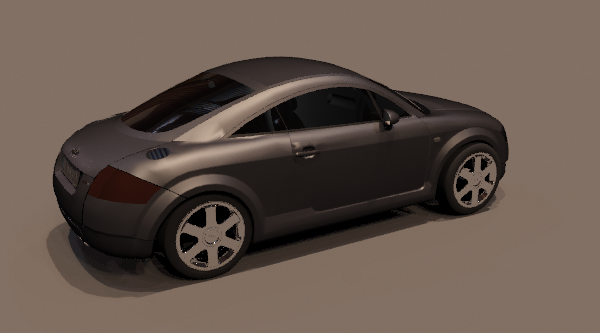
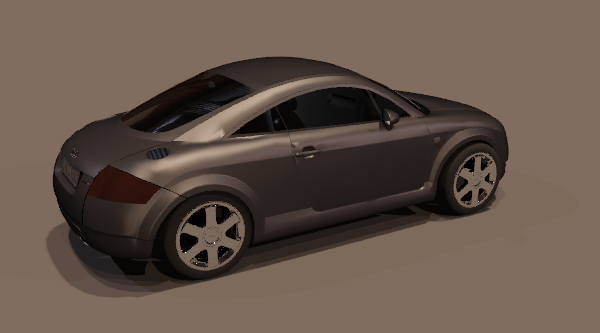
new report and png

diff --git a/project3/b03902082.html b/project3/b03902082.html
@@ -19,10 +19,10 @@
   </p>
   <p>
     接著我按照論文的方法，一開始 WorkList 中的 region 是整塊 light probe。
-    之後每個 iteration 我都把 worklist 中的每個 region 拿出來，從長邊把它切成兩個
+    之後每個 iteration 我都把 worklist 中的一個 region 拿出來，從長邊把它切成兩個
     region，下刀位置是使用 binary search 找出能盡量平分 region 能量的位置。然後把
-    切好的兩個新 region 加回 worklist 裡面。如此 iterate 6 次，則就會大約有 64 個
-    能量大致相等的區域。這邊要小心的是有時候 worklist 裡面的 region 已經小到沒辦法
+    切好的兩個新 region 加回 worklist 裡面。如此重複執行直到我切成夠多個 region 了
+    。這邊要小心的是有時候 worklist 裡面的 region 已經小到沒辦法
     再切了，這時候就要跳過不要切它，否則就有可能切出面積為零的 region 。
   </p>
   <p>
@@ -95,19 +95,14 @@
   </p>
 
   <p>
-    當 sample 數目是 16, 64 的時候，default method 的結果圖看起來有較多的雜訊，
-    不過這應該是正常現象，因為 my method 用到的 sample point 最多只有 64 個，而
+    當 sample 數目是 4, 16, 64 的時候，default method 的結果圖看起來有較多的雜訊，
+    不過這應該是正常現象，因為 my method 可能被 sample 到的光源數目比較少，而
     default method 有可能被用到的 sample point 則有無數個；因此在 sample point 
-    較少的時候 my method 取出來的 sample 的 variance 會比較小。
+    較少的時候 my method 會產生 variance 比較小的圖片。
   </p>
   <p>
-    在看起來比較暗的那個 scene，my method 的結果圖在車子前端，尤其是引擎蓋的部份
-    看起來比 default method 還要亮，應該是因為 my method 是使用 median cut 後的
-    region 重心當作點光源，因此跟 default method 有差異。
-  </p>
-  <p>
-    在比較亮的那個 scene (New)，my method 的車子尾部的影子非常散亂，這應該是因為
-    高能量的區域被切成很多塊後，形成了很多個相鄰的光源，因此車尾才會形成很多個
+    在比較亮的那個 scene (New)，my method 的車子影子非常散亂，這應該是因為
+    高能量的區域被切成很多塊後，形成了很多個相鄰的光源，因此才會形成很多個
     彼此重疊的影子，並且影子跟影子都是形狀類似但是位置有一點點差距的樣子。
   </p>
 
@@ -125,7 +120,7 @@
       <td><img src="med_input/envlight-4-my.png"></td>
     </tr>
     <tr>
-      <td>4</td>
+      <td>4 New</td>
       <td><img src="env_input/envlight-new-4.png"></td>
       <td><img src="med_input/envlight-new-4-my.png"></td>
     </tr>
@@ -135,7 +130,7 @@
       <td><img src="med_input/envlight-16-my.png"></td>
     </tr>
     <tr>
-      <td>16</td>
+      <td>16 New</td>
       <td><img src="env_input/envlight-new-16.png"></td>
       <td><img src="med_input/envlight-new-16-my.png"></td>
     </tr>
@@ -145,7 +140,7 @@
       <td><img src="med_input/envlight-64-my.png"></td>
     </tr>
     <tr>
-      <td>64</td>
+      <td>64 New</td>
       <td><img src="env_input/envlight-new-64.png"></td>
       <td><img src="med_input/envlight-new-64-my.png"></td>
     </tr>
@@ -155,7 +150,7 @@
       <td><img src="med_input/envlight-256-my.png"></td>
     </tr>
     <tr>
-      <td>256</td>
+      <td>256 New</td>
       <td><img src="env_input/envlight-new-256.png"></td>
       <td><img src="med_input/envlight-new-256-my.png"></td>
     </tr>

diff --git a/src/lights/medianCutEnvironmentLight.cpp b/src/lights/medianCutEnvironmentLight.cpp
@@ -85,7 +85,7 @@ MedianCutEnvironmentLight::~MedianCutEnvironmentLight() {
 
 MedianCutEnvironmentLight::MedianCutEnvironmentLight(const Transform &light2world,
         const Spectrum &L, int ns, const string &texmap)
-    : Light(light2world, ns) {
+    : Light(light2world, ns), nLightSources(ns) {
     int width = 0, height = 0;
     RGBSpectrum *texels = NULL;
     // Read texel data from _texmap_ into _texels_
@@ -123,45 +123,41 @@ MedianCutEnvironmentLight::MedianCutEnvironmentLight(const Transform &light2worl
         (Sum(_x2-1, _y2-1) - Sum(_x1-1, _y2-1) - Sum(_x2-1, _y1-1) + Sum(_x1-1, _y1-1))
     queue<P4> WorkList;
     WorkList.push(P4(0, 0, width, height));
-    for (int k = 0; k < 6; ++k) {
-      int N = WorkList.size();
-      while (N--) {
-        int x1, y1, x2, y2;
-        WorkList.front().get(x1, y1, x2, y2);
-        WorkList.pop();
-        int h, w;
-        h = y2 - y1;
-        w = (x2 - x1) * sinf((float)(y2 + y1) / 2.f / height * M_PI);
-        if (h > w) {
-          int lb = y1, hb = y2;
-          while (lb != hb-1) {
-            int mid = (lb + hb) / 2;
-            if (Rec(x1, y1, x2, mid) > Rec(x1, mid, x2, y2)) {
-              hb = mid;
-            } else {
-              lb = mid;
-            }
+    while (WorkList.size() < nLightSources) {
+      int x1, y1, x2, y2;
+      WorkList.front().get(x1, y1, x2, y2);
+      WorkList.pop();
+      int h, w;
+      h = y2 - y1;
+      w = (x2 - x1) * sinf((float)(y2 + y1) / 2.f / height * M_PI);
+      if (h > w) {
+        int lb = y1, hb = y2;
+        while (lb != hb-1) {
+          int mid = (lb + hb) / 2;
+          if (Rec(x1, y1, x2, mid) > Rec(x1, mid, x2, y2)) {
+            hb = mid;
+          } else {
+            lb = mid;
           }
-          if (y1 != lb) WorkList.push(P4(x1, y1, x2, lb));
-          if (lb != y2) WorkList.push(P4(x1, lb, x2, y2));
-        } else {
-          int lb = x1, hb = x2;
-          while (lb != hb-1) {
-            int mid = (lb + hb) / 2;
-            if (Rec(x1, y1, mid, y2) > Rec(mid, y1, x2, y2)) {
-              hb = mid;
-            } else {
-              lb = mid;
-            }
-          }
-          if (x1 != lb) WorkList.push(P4(x1, y1, lb, y2));
-          if (lb != x2) WorkList.push(P4(lb, y1, x2, y2));
         }
+        if (y1 != lb) WorkList.push(P4(x1, y1, x2, lb));
+        if (lb != y2) WorkList.push(P4(x1, lb, x2, y2));
+      } else {
+        int lb = x1, hb = x2;
+        while (lb != hb-1) {
+          int mid = (lb + hb) / 2;
+          if (Rec(x1, y1, mid, y2) > Rec(mid, y1, x2, y2)) {
+            hb = mid;
+          } else {
+            lb = mid;
+          }
+        }
+        if (x1 != lb) WorkList.push(P4(x1, y1, lb, y2));
+        if (lb != x2) WorkList.push(P4(lb, y1, x2, y2));
       }
     }
 
     // Compute centroid and place light source at each centroid
-    nLightSources = WorkList.size();
     invnLightSources = 1.f / nLightSources;
     Intensity = new RGBSpectrum[nLightSources];
     LightSourceU = new float[nLightSources];
@@ -312,7 +308,6 @@ float MedianCutEnvironmentLight::Pdf(const Point &, const Vector &w) const {
 Spectrum MedianCutEnvironmentLight::Sample_L(const Scene *scene,
         const LightSample &ls, float u1, float u2, float time,
         Ray *ray, Normal *Ns, float *pdf) const {
-    /* TODO */
     int li = Float2Int(ls.uPos[0] * nLightSources);
     float phi = LightSourceU[li];
     float theta = LightSourceV[li];
